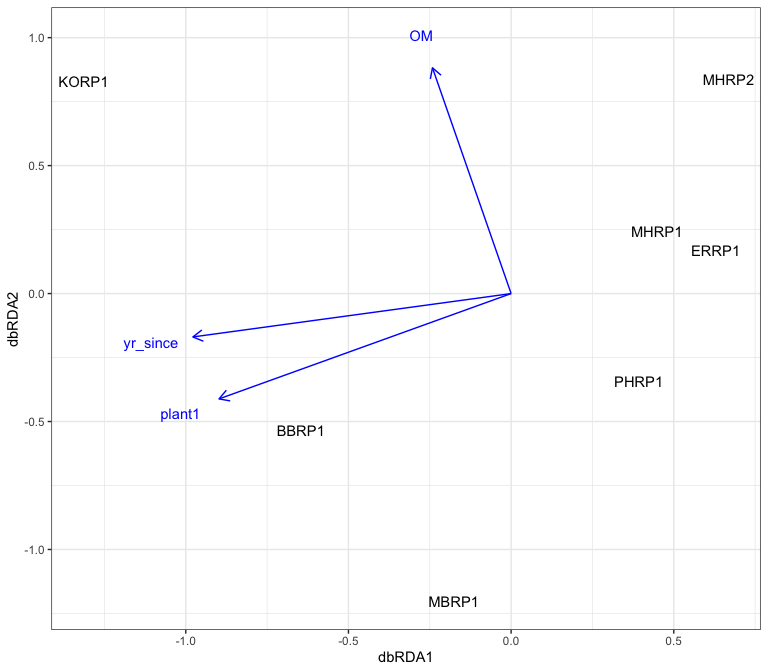
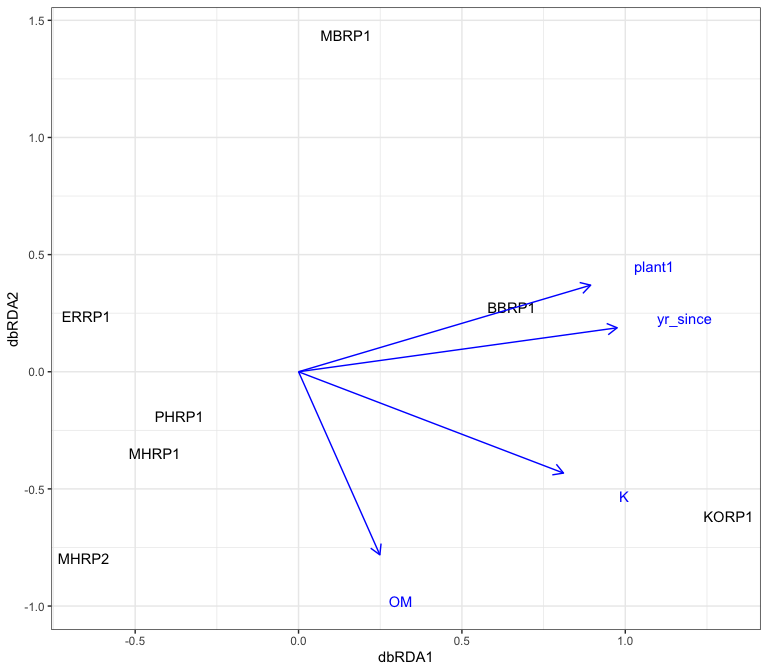
UPDATED tgr_constrained and supporting files

diff --git a/tgr_constrained.md b/tgr_constrained.md
@@ -2,7 +2,7 @@ Constrained and summary analysis
 ================
 Beau Larkin
 
-Last updated: 22 December, 2023
+Last updated: 29 December, 2023
 
 - [Description](#description)
 - [Packages and libraries](#packages-and-libraries)
@@ -263,7 +263,7 @@ db-RDA in function `dbrda-fun()`
     ## Permutation: free
     ## Number of permutations: 5039
     ## 
-    ## Model: dbrda(formula = fspe_bray ~ forb, data = env, sqrt.dist = TRUE)
+    ## Model: dbrda(formula = fspe_dist ~ forb, data = env, sqrt.dist = TRUE)
     ##          Df SumOfSqs      F Pr(>F)    
     ## Model     1  0.50352 1.5272  5e-04 ***
     ## Residual  5  1.64845                  
@@ -276,15 +276,15 @@ db-RDA in function `dbrda-fun()`
     ## Permutation: free
     ## Number of permutations: 5039
     ## 
-    ## Model: dbrda(formula = fspe_bray ~ forb, data = env, sqrt.dist = TRUE)
-    ##          Df SumOfSqs      F Pr(>F)   
-    ## dbRDA1    1  0.50352 1.5272 0.0015 **
-    ## Residual  5  1.64845                 
+    ## Model: dbrda(formula = fspe_dist ~ forb, data = env, sqrt.dist = TRUE)
+    ##          Df SumOfSqs      F Pr(>F)    
+    ## dbRDA1    1  0.50352 1.5272  0.001 ***
+    ## Residual  5  1.64845                  
     ## ---
     ## Signif. codes:  0 '***' 0.001 '**' 0.01 '*' 0.05 '.' 0.1 ' ' 1
     ## 
     ## $select_mod
-    ## Call: dbrda(formula = fspe_bray ~ forb, data = env, sqrt.dist = TRUE)
+    ## Call: dbrda(formula = fspe_dist ~ forb, data = env, sqrt.dist = TRUE)
     ## 
     ##               Inertia Proportion Rank
     ## Total          2.1520     1.0000     
@@ -335,9 +335,9 @@ write_csv(as_tibble(dbrda_bm_tr_its$plot_data$biplot, rownames = "envvar"), "tgr
     ## Permutation: free
     ## Number of permutations: 5039
     ## 
-    ## Model: dbrda(formula = fspe_bray ~ yr_since, data = env, sqrt.dist = TRUE)
+    ## Model: dbrda(formula = fspe_dist ~ yr_since, data = env, sqrt.dist = TRUE)
     ##          Df SumOfSqs      F Pr(>F)   
-    ## Model     1  0.49733 1.5029 0.0055 **
+    ## Model     1  0.49733 1.5029 0.0025 **
     ## Residual  5  1.65463                 
     ## ---
     ## Signif. codes:  0 '***' 0.001 '**' 0.01 '*' 0.05 '.' 0.1 ' ' 1
@@ -348,15 +348,15 @@ write_csv(as_tibble(dbrda_bm_tr_its$plot_data$biplot, rownames = "envvar"), "tgr
     ## Permutation: free
     ## Number of permutations: 5039
     ## 
-    ## Model: dbrda(formula = fspe_bray ~ yr_since, data = env, sqrt.dist = TRUE)
+    ## Model: dbrda(formula = fspe_dist ~ yr_since, data = env, sqrt.dist = TRUE)
     ##          Df SumOfSqs      F Pr(>F)   
-    ## dbRDA1    1  0.49733 1.5029 0.0035 **
+    ## dbRDA1    1  0.49733 1.5029 0.0055 **
     ## Residual  5  1.65463                 
     ## ---
     ## Signif. codes:  0 '***' 0.001 '**' 0.01 '*' 0.05 '.' 0.1 ' ' 1
     ## 
     ## $select_mod
-    ## Call: dbrda(formula = fspe_bray ~ yr_since, data = env, sqrt.dist =
+    ## Call: dbrda(formula = fspe_dist ~ yr_since, data = env, sqrt.dist =
     ## TRUE)
     ## 
     ##               Inertia Proportion Rank
@@ -388,6 +388,81 @@ write_csv(as_tibble(dbrda_bm_ab_its$plot_data$sites, rownames = "field_name"), "
 write_csv(as_tibble(dbrda_bm_ab_its$plot_data$biplot, rownames = "envvar"), "tgr_constrained_files/bm_ab_its_bp.csv")
 ```
 
+#### Blue Mounds and Fermi with plant community data
+
+``` r
+(dbrda_bmf_pr_its <- dbrda_fun(s = fspe$its, pspe_pcoa = pcoa_fun(pspe$pr, rg = c("BM", "FL"), method = "jaccard")$site_vectors, rg = c("BM", "FL")))[c(3, 4, 5, 2)]
+```
+
+    ## $R2
+    ## $R2$r.squared
+    ## [1] 0.15
+    ## 
+    ## $R2$adj.r.squared
+    ## [1] 0.06
+    ## 
+    ## 
+    ## $global_axis_test
+    ## Permutation test for dbrda under reduced model
+    ## Blocks:  with(regions, region) 
+    ## Permutation: free
+    ## Number of permutations: 1999
+    ## 
+    ## Model: dbrda(formula = fspe_dist ~ Condition(regions$region) + yr_since, data = env, sqrt.dist = TRUE)
+    ##          Df SumOfSqs      F Pr(>F)   
+    ## Model     1   0.4904 1.5682 0.0035 **
+    ## Residual  7   2.1890                 
+    ## ---
+    ## Signif. codes:  0 '***' 0.001 '**' 0.01 '*' 0.05 '.' 0.1 ' ' 1
+    ## 
+    ## $individual_axis_test
+    ## Permutation test for dbrda under reduced model
+    ## Forward tests for axes
+    ## Blocks:  with(regions, region) 
+    ## Permutation: free
+    ## Number of permutations: 1999
+    ## 
+    ## Model: dbrda(formula = fspe_dist ~ Condition(regions$region) + yr_since, data = env, sqrt.dist = TRUE)
+    ##          Df SumOfSqs      F Pr(>F)   
+    ## dbRDA1    1   0.4904 1.5682  0.005 **
+    ## Residual  7   2.1890                 
+    ## ---
+    ## Signif. codes:  0 '***' 0.001 '**' 0.01 '*' 0.05 '.' 0.1 ' ' 1
+    ## 
+    ## $select_mod
+    ## Call: dbrda(formula = fspe_dist ~ Condition(regions$region) + yr_since,
+    ## data = env, sqrt.dist = TRUE)
+    ## 
+    ##               Inertia Proportion Rank
+    ## Total          3.2439     1.0000     
+    ## Conditional    0.5645     0.1740    1
+    ## Constrained    0.4904     0.1512    1
+    ## Unconstrained  2.1889     0.6748    7
+    ## Inertia is Bray distance 
+    ## 
+    ## Eigenvalues for constrained axes:
+    ## dbRDA1 
+    ## 0.4904 
+    ## 
+    ## Eigenvalues for unconstrained axes:
+    ##   MDS1   MDS2   MDS3   MDS4   MDS5   MDS6   MDS7 
+    ## 0.4162 0.3693 0.3342 0.3149 0.2673 0.2474 0.2397
+
+Years since still holds, but I’m not convinced that this is correct.
+With only three sites in Fermi?
+
+``` r
+plot_dbrda(site_sc = dbrda_bmf_pr_its$plot_data$sites,
+           site_bp = dbrda_bmf_pr_its$plot_data$biplot)
+```
+
+<img src="tgr_constrained_files/figure-gfm/plot_bmf_pr_its-1.png" style="display: block; margin: auto;" />
+
+``` r
+write_csv(as_tibble(dbrda_bmf_pr_its$plot_data$sites, rownames = "field_name"), "tgr_constrained_files/bmf_pr_its_sitelocs.csv")
+write_csv(as_tibble(dbrda_bmf_pr_its$plot_data$biplot, rownames = "envvar"), "tgr_constrained_files/bmf_pr_its_bp.csv")
+```
+
 ### AMF community (18S sequence abundance)
 
 #### Blue Mounds with plant traits data
@@ -409,9 +484,9 @@ write_csv(as_tibble(dbrda_bm_ab_its$plot_data$biplot, rownames = "envvar"), "tgr
     ## Permutation: free
     ## Number of permutations: 5039
     ## 
-    ## Model: dbrda(formula = fspe_bray ~ C4_grass, data = env, sqrt.dist = TRUE)
+    ## Model: dbrda(formula = fspe_dist ~ C4_grass, data = env, sqrt.dist = TRUE)
     ##          Df SumOfSqs      F Pr(>F)    
-    ## Model     1  0.49118 2.0384  0.001 ***
+    ## Model     1  0.49118 2.0384  5e-04 ***
     ## Residual  5  1.20483                  
     ## ---
     ## Signif. codes:  0 '***' 0.001 '**' 0.01 '*' 0.05 '.' 0.1 ' ' 1
@@ -422,7 +497,7 @@ write_csv(as_tibble(dbrda_bm_ab_its$plot_data$biplot, rownames = "envvar"), "tgr
     ## Permutation: free
     ## Number of permutations: 5039
     ## 
-    ## Model: dbrda(formula = fspe_bray ~ C4_grass, data = env, sqrt.dist = TRUE)
+    ## Model: dbrda(formula = fspe_dist ~ C4_grass, data = env, sqrt.dist = TRUE)
     ##          Df SumOfSqs      F Pr(>F)    
     ## dbRDA1    1  0.49118 2.0384  5e-04 ***
     ## Residual  5  1.20483                  
@@ -430,7 +505,7 @@ write_csv(as_tibble(dbrda_bm_ab_its$plot_data$biplot, rownames = "envvar"), "tgr
     ## Signif. codes:  0 '***' 0.001 '**' 0.01 '*' 0.05 '.' 0.1 ' ' 1
     ## 
     ## $select_mod
-    ## Call: dbrda(formula = fspe_bray ~ C4_grass, data = env, sqrt.dist =
+    ## Call: dbrda(formula = fspe_dist ~ C4_grass, data = env, sqrt.dist =
     ## TRUE)
     ## 
     ##               Inertia Proportion Rank
@@ -462,6 +537,8 @@ write_csv(as_tibble(dbrda_bm_tr_amf$plot_data$sites, rownames = "field_name"), "
 write_csv(as_tibble(dbrda_bm_tr_amf$plot_data$biplot, rownames = "envvar"), "tgr_constrained_files/bm_tr_amf_bp.csv")
 ```
 
+#### Blue Mounds with plant community data
+
 ``` r
 (dbrda_bm_ab_amf <- dbrda_fun(s = fspe$amf, pspe_pcoa = pspe_pcoa_ab$site_vectors))[c(3, 4, 5, 2)]
 ```
@@ -479,9 +556,9 @@ write_csv(as_tibble(dbrda_bm_tr_amf$plot_data$biplot, rownames = "envvar"), "tgr
     ## Permutation: free
     ## Number of permutations: 5039
     ## 
-    ## Model: dbrda(formula = fspe_bray ~ yr_since, data = env, sqrt.dist = TRUE)
+    ## Model: dbrda(formula = fspe_dist ~ yr_since, data = env, sqrt.dist = TRUE)
     ##          Df SumOfSqs      F Pr(>F)  
-    ## Model     1  0.46481 1.8876  0.012 *
+    ## Model     1  0.46481 1.8876 0.0145 *
     ## Residual  5  1.23121                
     ## ---
     ## Signif. codes:  0 '***' 0.001 '**' 0.01 '*' 0.05 '.' 0.1 ' ' 1
@@ -492,15 +569,15 @@ write_csv(as_tibble(dbrda_bm_tr_amf$plot_data$biplot, rownames = "envvar"), "tgr
     ## Permutation: free
     ## Number of permutations: 5039
     ## 
-    ## Model: dbrda(formula = fspe_bray ~ yr_since, data = env, sqrt.dist = TRUE)
+    ## Model: dbrda(formula = fspe_dist ~ yr_since, data = env, sqrt.dist = TRUE)
     ##          Df SumOfSqs      F Pr(>F)  
-    ## dbRDA1    1  0.46481 1.8876  0.015 *
+    ## dbRDA1    1  0.46481 1.8876 0.0155 *
     ## Residual  5  1.23121                
     ## ---
     ## Signif. codes:  0 '***' 0.001 '**' 0.01 '*' 0.05 '.' 0.1 ' ' 1
     ## 
     ## $select_mod
-    ## Call: dbrda(formula = fspe_bray ~ yr_since, data = env, sqrt.dist =
+    ## Call: dbrda(formula = fspe_dist ~ yr_since, data = env, sqrt.dist =
     ## TRUE)
     ## 
     ##               Inertia Proportion Rank
@@ -530,6 +607,81 @@ plot_dbrda(site_sc = dbrda_bm_ab_amf$plot_data$sites,
 ``` r
 write_csv(as_tibble(dbrda_bm_ab_amf$plot_data$sites, rownames = "field_name"), "tgr_constrained_files/bm_ab_amf_sitelocs.csv")
 write_csv(as_tibble(dbrda_bm_ab_amf$plot_data$biplot, rownames = "envvar"), "tgr_constrained_files/bm_ab_amf_bp.csv")
+```
+
+#### Blue Mounds and Fermi with plant community data
+
+``` r
+(dbrda_bmf_pr_amf <- dbrda_fun(s = fspe$amf, pspe_pcoa = pcoa_fun(pspe$pr, rg = c("BM", "FL"), method = "jaccard")$site_vectors, rg = c("BM", "FL")))[c(3, 4, 5, 2)]
+```
+
+    ## $R2
+    ## $R2$r.squared
+    ## [1] 0.19
+    ## 
+    ## $R2$adj.r.squared
+    ## [1] 0.12
+    ## 
+    ## 
+    ## $global_axis_test
+    ## Permutation test for dbrda under reduced model
+    ## Blocks:  with(regions, region) 
+    ## Permutation: free
+    ## Number of permutations: 1999
+    ## 
+    ## Model: dbrda(formula = fspe_dist ~ Condition(regions$region) + yr_since, data = env, sqrt.dist = TRUE)
+    ##          Df SumOfSqs      F Pr(>F)   
+    ## Model     1  0.46705 2.1407  0.008 **
+    ## Residual  7  1.52723                 
+    ## ---
+    ## Signif. codes:  0 '***' 0.001 '**' 0.01 '*' 0.05 '.' 0.1 ' ' 1
+    ## 
+    ## $individual_axis_test
+    ## Permutation test for dbrda under reduced model
+    ## Forward tests for axes
+    ## Blocks:  with(regions, region) 
+    ## Permutation: free
+    ## Number of permutations: 1999
+    ## 
+    ## Model: dbrda(formula = fspe_dist ~ Condition(regions$region) + yr_since, data = env, sqrt.dist = TRUE)
+    ##          Df SumOfSqs      F Pr(>F)   
+    ## dbRDA1    1  0.46705 2.1407  0.009 **
+    ## Residual  7  1.52723                 
+    ## ---
+    ## Signif. codes:  0 '***' 0.001 '**' 0.01 '*' 0.05 '.' 0.1 ' ' 1
+    ## 
+    ## $select_mod
+    ## Call: dbrda(formula = fspe_dist ~ Condition(regions$region) + yr_since,
+    ## data = env, sqrt.dist = TRUE)
+    ## 
+    ##               Inertia Proportion Rank
+    ## Total          2.4146     1.0000     
+    ## Conditional    0.4203     0.1741    1
+    ## Constrained    0.4671     0.1934    1
+    ## Unconstrained  1.5272     0.6325    7
+    ## Inertia is Bray distance 
+    ## 
+    ## Eigenvalues for constrained axes:
+    ## dbRDA1 
+    ## 0.4671 
+    ## 
+    ## Eigenvalues for unconstrained axes:
+    ##   MDS1   MDS2   MDS3   MDS4   MDS5   MDS6   MDS7 
+    ## 0.3973 0.2826 0.2548 0.1896 0.1621 0.1233 0.1174
+
+Years since still holds, but I’m not convinced that this is correct.
+With only three sites in Fermi?
+
+``` r
+plot_dbrda(site_sc = dbrda_bmf_pr_amf$plot_data$sites,
+           site_bp = dbrda_bmf_pr_amf$plot_data$biplot)
+```
+
+<img src="tgr_constrained_files/figure-gfm/plot_bmf_pr_amf-1.png" style="display: block; margin: auto;" />
+
+``` r
+write_csv(as_tibble(dbrda_bmf_pr_amf$plot_data$sites, rownames = "field_name"), "tgr_constrained_files/bmf_pr_amf_sitelocs.csv")
+write_csv(as_tibble(dbrda_bmf_pr_amf$plot_data$biplot, rownames = "envvar"), "tgr_constrained_files/bmf_pr_amf_bp.csv")
 ```
 
 Microbial communities align with years since restoration across regions
@@ -613,7 +765,7 @@ anova(rda(vpdat_its$Y %>% select(-vpdat_its_zcols$Y) ~ Axis.1 + Axis.2 + Conditi
 <div data-pagedtable="false">
 
 <script data-pagedtable-source type="application/json">
-{"columns":[{"label":[""],"name":["_rn_"],"type":[""],"align":["left"]},{"label":["Df"],"name":[1],"type":["dbl"],"align":["right"]},{"label":["Variance"],"name":[2],"type":["dbl"],"align":["right"]},{"label":["F"],"name":[3],"type":["dbl"],"align":["right"]},{"label":["Pr(>F)"],"name":[4],"type":["dbl"],"align":["right"]}],"data":[{"1":"2","2":"16723865","3":"1.683776","4":"0.174","_rn_":"Model"},{"1":"2","2":"9932358","3":"NA","4":"NA","_rn_":"Residual"}],"options":{"columns":{"min":{},"max":[10]},"rows":{"min":[10],"max":[10]},"pages":{}}}
+{"columns":[{"label":[""],"name":["_rn_"],"type":[""],"align":["left"]},{"label":["Df"],"name":[1],"type":["dbl"],"align":["right"]},{"label":["Variance"],"name":[2],"type":["dbl"],"align":["right"]},{"label":["F"],"name":[3],"type":["dbl"],"align":["right"]},{"label":["Pr(>F)"],"name":[4],"type":["dbl"],"align":["right"]}],"data":[{"1":"2","2":"16723865","3":"1.683776","4":"0.149","_rn_":"Model"},{"1":"2","2":"9932358","3":"NA","4":"NA","_rn_":"Residual"}],"options":{"columns":{"min":{},"max":[10]},"rows":{"min":[10],"max":[10]},"pages":{}}}
   </script>
 
 </div>
@@ -629,7 +781,7 @@ anova(rda(vpdat_its$Y %>% select(-vpdat_its_zcols$Y) ~ Axis.1 + Axis.2 + Conditi
 <div data-pagedtable="false">
 
 <script data-pagedtable-source type="application/json">
-{"columns":[{"label":[""],"name":["_rn_"],"type":[""],"align":["left"]},{"label":["Df"],"name":[1],"type":["dbl"],"align":["right"]},{"label":["Variance"],"name":[2],"type":["dbl"],"align":["right"]},{"label":["F"],"name":[3],"type":["dbl"],"align":["right"]},{"label":["Pr(>F)"],"name":[4],"type":["dbl"],"align":["right"]}],"data":[{"1":"2","2":"16961980","3":"1.70775","4":"0.115","_rn_":"Model"},{"1":"2","2":"9932358","3":"NA","4":"NA","_rn_":"Residual"}],"options":{"columns":{"min":{},"max":[10]},"rows":{"min":[10],"max":[10]},"pages":{}}}
+{"columns":[{"label":[""],"name":["_rn_"],"type":[""],"align":["left"]},{"label":["Df"],"name":[1],"type":["dbl"],"align":["right"]},{"label":["Variance"],"name":[2],"type":["dbl"],"align":["right"]},{"label":["F"],"name":[3],"type":["dbl"],"align":["right"]},{"label":["Pr(>F)"],"name":[4],"type":["dbl"],"align":["right"]}],"data":[{"1":"2","2":"16961980","3":"1.70775","4":"0.124","_rn_":"Model"},{"1":"2","2":"9932358","3":"NA","4":"NA","_rn_":"Residual"}],"options":{"columns":{"min":{},"max":[10]},"rows":{"min":[10],"max":[10]},"pages":{}}}
   </script>
 
 </div>
@@ -701,7 +853,7 @@ anova(rda(vpdat_amf$Y %>% select(-vpdat_amf_zcols$Y) ~ Axis.1 + Axis.2 + Conditi
 <div data-pagedtable="false">
 
 <script data-pagedtable-source type="application/json">
-{"columns":[{"label":[""],"name":["_rn_"],"type":[""],"align":["left"]},{"label":["Df"],"name":[1],"type":["dbl"],"align":["right"]},{"label":["Variance"],"name":[2],"type":["dbl"],"align":["right"]},{"label":["F"],"name":[3],"type":["dbl"],"align":["right"]},{"label":["Pr(>F)"],"name":[4],"type":["dbl"],"align":["right"]}],"data":[{"1":"2","2":"6051491","3":"1.906792","4":"0.167","_rn_":"Model"},{"1":"2","2":"3173651","3":"NA","4":"NA","_rn_":"Residual"}],"options":{"columns":{"min":{},"max":[10]},"rows":{"min":[10],"max":[10]},"pages":{}}}
+{"columns":[{"label":[""],"name":["_rn_"],"type":[""],"align":["left"]},{"label":["Df"],"name":[1],"type":["dbl"],"align":["right"]},{"label":["Variance"],"name":[2],"type":["dbl"],"align":["right"]},{"label":["F"],"name":[3],"type":["dbl"],"align":["right"]},{"label":["Pr(>F)"],"name":[4],"type":["dbl"],"align":["right"]}],"data":[{"1":"2","2":"6051491","3":"1.906792","4":"0.174","_rn_":"Model"},{"1":"2","2":"3173651","3":"NA","4":"NA","_rn_":"Residual"}],"options":{"columns":{"min":{},"max":[10]},"rows":{"min":[10],"max":[10]},"pages":{}}}
   </script>
 
 </div>
@@ -717,7 +869,7 @@ anova(rda(vpdat_amf$Y %>% select(-vpdat_amf_zcols$Y) ~ Axis.1 + Axis.2 + Conditi
 <div data-pagedtable="false">
 
 <script data-pagedtable-source type="application/json">
-{"columns":[{"label":[""],"name":["_rn_"],"type":[""],"align":["left"]},{"label":["Df"],"name":[1],"type":["dbl"],"align":["right"]},{"label":["Variance"],"name":[2],"type":["dbl"],"align":["right"]},{"label":["F"],"name":[3],"type":["dbl"],"align":["right"]},{"label":["Pr(>F)"],"name":[4],"type":["dbl"],"align":["right"]}],"data":[{"1":"2","2":"4476907","3":"1.410649","4":"0.293","_rn_":"Model"},{"1":"2","2":"3173651","3":"NA","4":"NA","_rn_":"Residual"}],"options":{"columns":{"min":{},"max":[10]},"rows":{"min":[10],"max":[10]},"pages":{}}}
+{"columns":[{"label":[""],"name":["_rn_"],"type":[""],"align":["left"]},{"label":["Df"],"name":[1],"type":["dbl"],"align":["right"]},{"label":["Variance"],"name":[2],"type":["dbl"],"align":["right"]},{"label":["F"],"name":[3],"type":["dbl"],"align":["right"]},{"label":["Pr(>F)"],"name":[4],"type":["dbl"],"align":["right"]}],"data":[{"1":"2","2":"4476907","3":"1.410649","4":"0.267","_rn_":"Model"},{"1":"2","2":"3173651","3":"NA","4":"NA","_rn_":"Residual"}],"options":{"columns":{"min":{},"max":[10]},"rows":{"min":[10],"max":[10]},"pages":{}}}
   </script>
 
 </div>
@@ -780,11 +932,10 @@ sites from Fermi included, this relationship is fairly strong. Fermi
 sites, with abundant SOM, are probably influencing this result more than
 years are, though.
 
-\*\* What if we correlate the constrained axes with responses?\*\* This
-might help a little by reordering sites based on time since restoration
-*and* community differences, reducing the leverage of sites from Fermi.
-Let’s arrange the first axes from each dbRDA and join them with response
-data.
+**What if we correlate the constrained axes with responses?** This might
+help a little by reordering sites based on time since restoration *and*
+community differences, reducing the leverage of sites from Fermi. Let’s
+arrange the first axes from each dbRDA and join them with response data.
 
 ``` r
 axis_corr <- 
